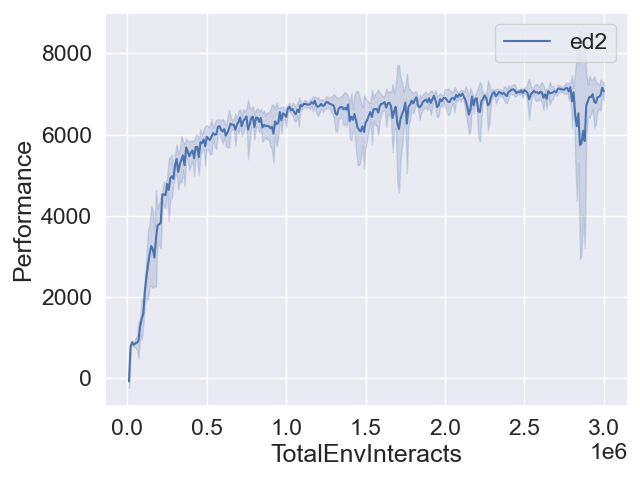
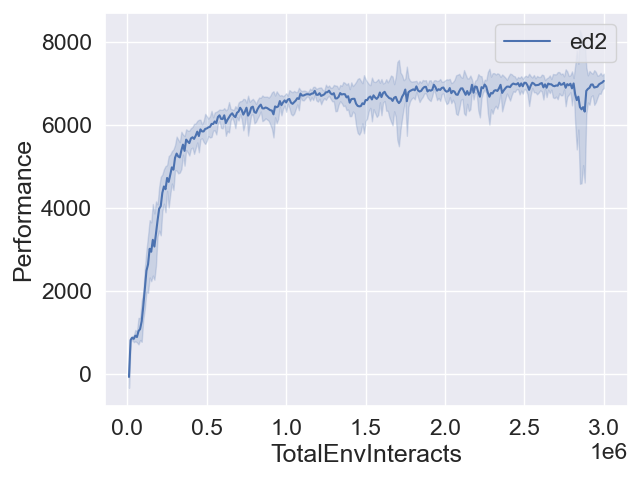
without action normalization for ed2 torch and adjust the hyperparmaeter of ed2_torch same with ed2 tf2.

diff --git a/thompson.py b/thompson.py
@@ -1,0 +1,148 @@
+import numpy as np
+import matplotlib.pyplot as plt
+import seaborn as sns
+import pandas as pd
+from scipy.stats import beta
+
+sns.set_style("whitegrid")
+
+
+class Environment:
+    def __init__(self, variants, payouts, n_trials, variance=False):
+        self.variants = variants
+        if variance:
+            self.payouts = np.clip(payouts + np.random.normal(0, 0.04, size=len(variants)), 0, .2)
+        else:
+            self.payouts = payouts
+        # self.payouts[5] = self.payouts[5] if i < n_trials/2 else 0.1
+        self.n_trials = n_trials
+        self.total_reward = 0
+        self.n_k = len(variants)
+        self.shape = (self.n_k, n_trials)
+
+    def run(self, agent):
+        """Run the simulation with the agent.
+        agent must be a class with choose_k and update methods."""
+
+        for i in range(self.n_trials):
+            # agent makes a choice
+            x_chosen = agent.choose_k()
+            # Environment returns reward
+            reward = np.random.binomial(1, p=self.payouts[x_chosen])
+            # agent learns of reward
+            agent.reward = reward
+            # agent updates parameters based on the data
+            agent.update()
+            self.total_reward += reward
+
+        agent.collect_data()
+
+        return self.total_reward
+
+
+class BaseSampler:
+
+    def __init__(self, env, n_samples=None, n_learning=None, e=0.05):
+        self.env = env
+        self.shape = (env.n_k, n_samples)
+        self.variants = env.variants
+        self.n_trials = env.n_trials
+        self.payouts = env.payouts
+        self.ad_i = np.zeros(env.n_trials)
+        self.r_i = np.zeros(env.n_trials)
+        self.thetas = np.zeros(self.n_trials)
+        self.regret_i = np.zeros(env.n_trials)
+        self.thetaregret = np.zeros(self.n_trials)
+
+        self.a = np.ones(env.n_k)
+        self.b = np.ones(env.n_k)
+        self.theta = np.zeros(env.n_k)
+        self.data = None
+        self.reward = 0
+        self.total_reward = 0
+        self.k = 0
+        self.i = 0
+
+        self.n_samples = n_samples
+        self.n_learning = n_learning
+        self.e = e
+        self.ep = np.random.uniform(0, 1, size=env.n_trials)
+        self.exploit = (1 - e)
+
+    def collect_data(self):
+        self.data = pd.DataFrame(dict(ad=self.ad_i, reward=self.r_i, regret=self.regret_i))
+
+
+class RandomSampler(BaseSampler):
+    def __init__(self, env):
+        super().__init__(env)
+
+    def choose_k(self):
+        self.k = np.random.choice(self.variants)
+
+        return self.k
+
+    def update(self):
+        # nothing to update
+        self.thetaregret[self.i] = np.max(self.theta) - self.theta[self.k]
+
+        self.a[self.k] += self.reward
+        self.b[self.k] += 1
+        self.theta = self.a / self.b
+
+        self.ad_i[self.i] = self.k
+        self.r_i[self.i] = self.reward
+        self.i += 1
+
+
+class eGreedy(BaseSampler):
+
+    def __init__(self, env, n_learning, e):
+        super().__init__(env, n_learning, e)
+
+    def choose_k(self):
+        # e% of the time take a random draw from machines
+        # random k for n learning trials, then the machine with highest theta
+        self.k = np.random.choice(self.variants) if self.i < self.n_learning else np.argmax(self.theta)
+        # with 1 - e probability take a random sample (explore) otherwise exploit
+        self.k = np.random.choice(self.variants) if self.ep[self.i] > self.exploit else self.k
+        return self.k
+
+    def update(self):
+        # update the probability of payout for each machine
+        self.a[self.k] += self.reward
+        self.b[self.k] += 1
+        self.theta = self.a / self.b
+
+        self.thetas[self.i] = self.theta[self.k]
+        self.thetaregret[self.i] = np.max(self.thetas) - self.theta[self.k]
+
+        self.ad_i[self.i] = self.k
+        self.r_i[self.i] = self.reward
+        self.i += 1
+
+
+class ThompsonSampler(BaseSampler):
+
+    def __init__(self, env):
+        super().__init__(env)
+
+    def choose_k(self):
+        # sample from posterior (this is the thompson sampling approach)
+        # this leads to more exploration because machines with > uncertainty can then be selected as the machine
+        self.theta = np.random.beta(self.a, self.b)
+        # select machine with highest posterior p of payout
+        self.k = self.variants[np.argmax(self.theta)]
+        return self.k
+
+    def update(self):
+        # update dist (a, b) = (a, b) + (r, 1 - r)
+        self.a[self.k] += self.reward
+        self.b[self.k] += 1 - self.reward  # i.e. only increment b when it's a swing and a miss. 1 - 0 = 1, 1 - 1 = 0
+
+        self.thetas[self.i] = self.theta[self.k]
+        self.thetaregret[self.i] = np.max(self.thetas) - self.theta[self.k]
+
+        self.ad_i[self.i] = self.k
+        self.r_i[self.i] = self.reward
+        self.i += 1

diff --git a/spinup/algos/pytorch/ed2/core.py b/spinup/algos/pytorch/ed2/core.py
@@ -42,7 +42,7 @@ class MLPActor(nn.Module):
         mu = self.pi(obs)
         mu = self.last_layer(mu)
         # Normalize the actions
-        mu = normalize(mu, p=2.0, dim=0)
+        # mu = normalize(mu, p=2.0, dim=0)
 
         m_tanh = nn.Tanh()
         return self.act_limit * m_tanh(mu)
@@ -59,7 +59,7 @@ class MLPQFunction(nn.Module):
 
 class MLPActorCritic(nn.Module):
 
-    def __init__(self, observation_space, action_space, hidden_sizes=(256,256),
+    def __init__(self, observation_space, action_space,prior_weight, hidden_sizes=(256,256),
                  activation=nn.ReLU, ac_number=5):
         super().__init__()
 

diff --git a/spinup/algos/pytorch/ed2/ed2.py b/spinup/algos/pytorch/ed2/ed2.py
@@ -118,7 +118,7 @@ def ed2(env_fn, actor_critic=core.MLPActorCritic, ac_kwargs=dict(), seed=0,
         logger_kwargs=dict(), save_freq=10_000,  ac_number=5,
         init_ere_coeff=0.995,  train_intensity=1, use_noise_for_exploration=False,
         use_vote_policy=False,
-        log_every=10_000,
+        log_every=10_000,save_path=None,
         ):
     """
     Twin Delayed Deep Deterministic Policy Gradient (TD3)

diff --git a/specs/ed2_torch_on_mujoco.py b/specs/ed2_torch_on_mujoco.py
@@ -5,10 +5,10 @@ base_config = {
     'ac_kwargs': {
         'hidden_sizes': [256, 256],
         # 'activation': 'relu',
-        #'prior_weight': 0.0
+        'prior_weight': 0.0
     },
     'save_freq': 1_000_000,
-    #'save_path': './out/checkpoint',
+    'save_path': './out/checkpoint',
     'logger_kwargs': {
         'exp_name': 'ed2_torch'
     }
